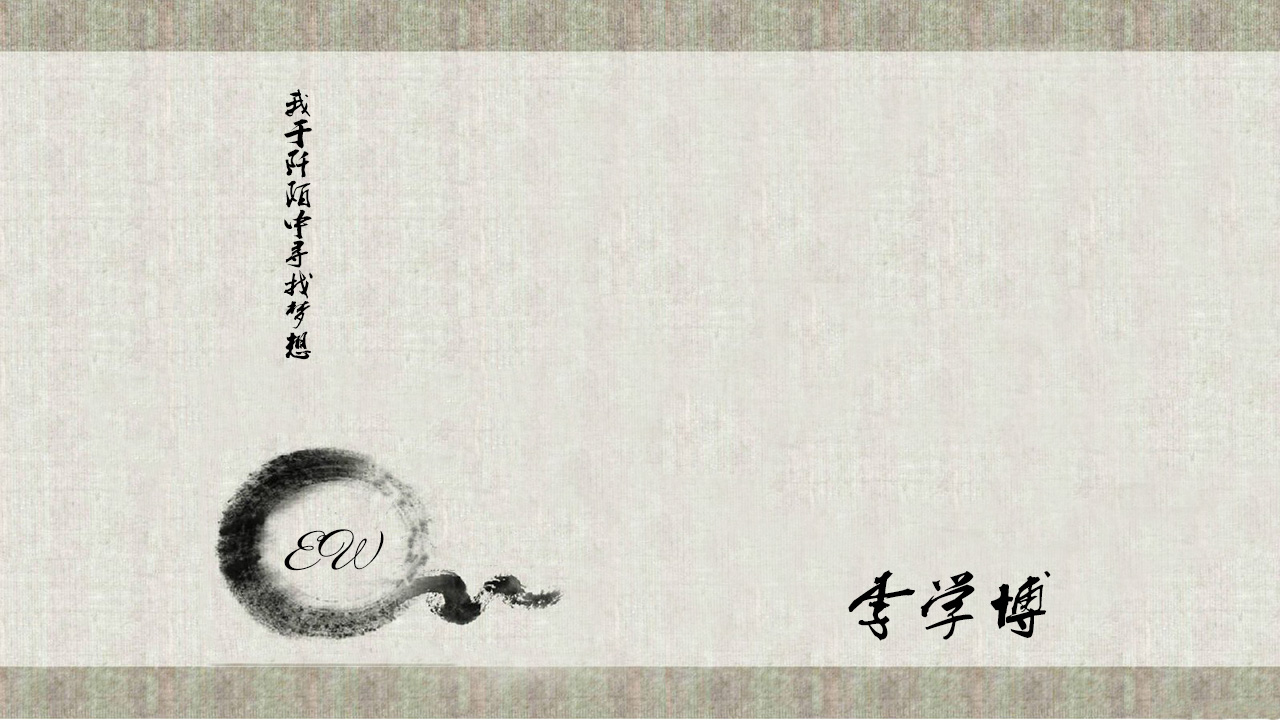
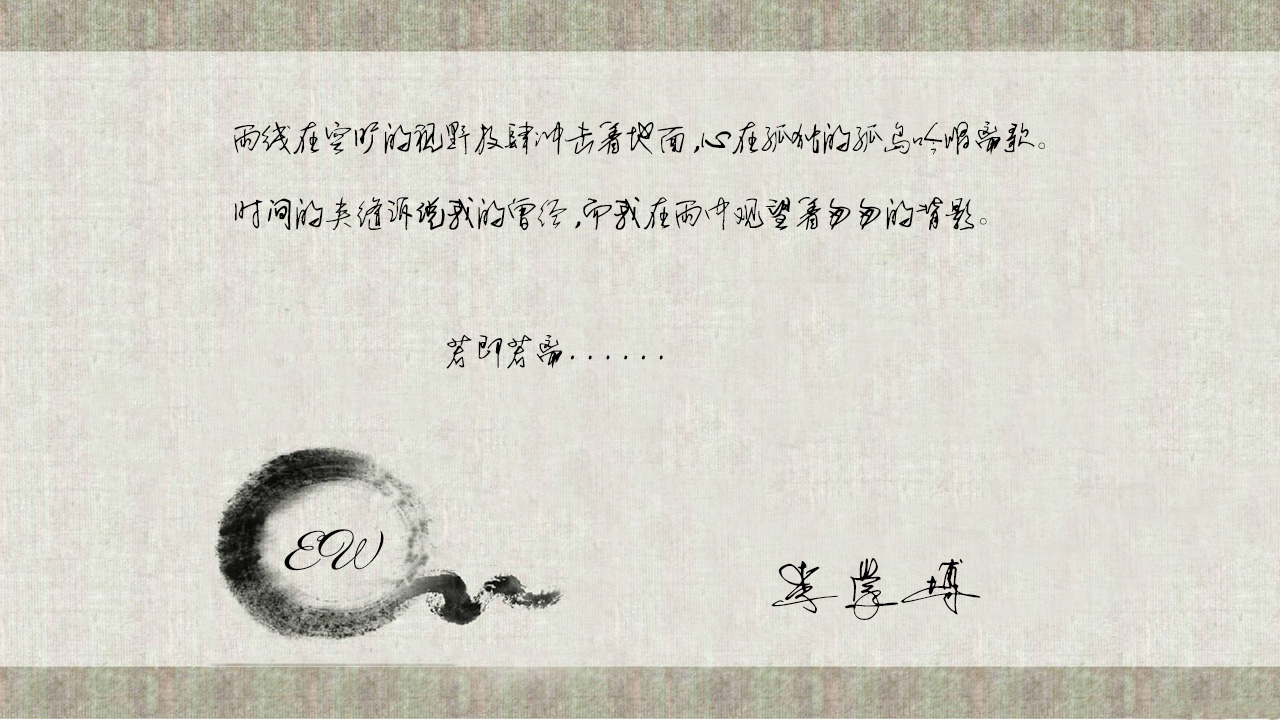
轮播图完成

Changed region(s): [[0.1875, 0.1222, 0.8125, 0.5194], [0.5938, 0.7639, 0.8125, 0.8861], [0.3438, 0.4583, 0.4375, 0.5194]]

diff --git a/src/components/program/program.vue b/src/components/program/program.vue
@@ -72,46 +72,33 @@
     <div id="demo" class="carousel slide" data-ride="carousel">
       <!-- 指示符 -->
       <ul class="carousel-indicators">
-        <li data-target="#demo" data-slide-to="0" class="active"></li>
-        <li data-target="#demo" data-slide-to="1"></li>
-        <li data-target="#demo" data-slide-to="2"></li>
+        <li
+          data-target="#demo"
+          data-slide-to="0"
+          v-for="(item,index) in img"
+          :key="item.id"
+          :class="[{'active':!index}]"
+        ></li>
       </ul>
-
       <!-- 轮播图片 -->
       <div class="ew-banner">
         <div class="carousel-inner">
-          <div class="carousel-item active">
+          <div
+            v-for="(item,index) in img"
+            :key="item.id"
+            :class="['carousel-item',{'active':!index}]"
+          >
             <a
               href="#"
-              class="pc-img d-none d-md-block"
-              style="background-image:url(https://static.runoob.com/images/mix/img_fjords_wide.jpg)"
+              class="pc-img"
+              :style="{backgroundImage:'url('+item.pAddress+')'}"
+              v-if="flag"
             ></a>
-            <a href="#" class="m-img d-block d-md-none">
-              <img src="https://static.runoob.com/images/mix/img_fjords_wide.jpg">
-            </a>
-          </div>
-          <div class="carousel-item">
-            <a
-              href="#"
-              class="pc-img d-none d-md-block"
-              style="background-image:url(https://static.runoob.com/images/mix/img_fjords_wide.jpg)"
-            ></a>
-            <a href="#" class="m-img d-block d-md-none">
-              <img src="https://static.runoob.com/images/mix/img_fjords_wide.jpg">
-            </a>
-          </div>
-          <div class="carousel-item">
-            <a
-              href="#"
-              class="pc-img d-none d-md-block"
-              style="background-image:url(https://static.runoob.com/images/mix/img_fjords_wide.jpg)"
-            ></a>
-            <a href="#" class="m-img d-block d-md-none">
-              <img src="https://static.runoob.com/images/mix/img_fjords_wide.jpg">
+            <a href="#" class="m-img" v-else>
+              <img :src="item.mAddress">
             </a>
           </div>
         </div>
-
         <!-- 左右切换按钮 -->
         <a class="carousel-control-prev" href="#demo" data-slide="prev">
           <span class="carousel-control-prev-icon"></span>
@@ -132,7 +119,12 @@
 export default {
   name: "program",
   data() {
-    return {};
+    return {
+      items: [],
+      img: [],
+      flag: "",
+      style: ""
+    };
   },
   created() {
     this.banner();
@@ -140,13 +132,16 @@ export default {
   methods: {
     banner() {
       this.$http
-        .jsonp("http://api.douban.com/v2/movie/top250?start=25&count=25")
+        .get("http://www.energywave.top:3053/api/imgUrl")
         .then(result => {
-          var isMobile = $(window).width() < 500000 ? "ture" : false;
+          var isMobile = $(window).width() > 768 ? "ture" : false;
           console.log(isMobile);
-          console.log(result);
+          this.flag = isMobile;
+          console.log(result.body);
+          this.img = result.body;
         });
     }
+    // 未开发屏幕监视
   }
 };
 </script>
@@ -218,5 +213,13 @@ a:hover {
     display: block;
     width: 100%;
   }
+}
+//轮播图指示器颜色
+.carousel-indicators .active {
+  background-color: #000;
+}
+.carousel-control-next-icon,
+.carousel-control-prev-icon {
+  background-color: #000;
 }
 </style>

diff --git a/src/components/hello/hello.vue b/src/components/hello/hello.vue
@@ -4,19 +4,19 @@
       <ul>
         <li>
           <router-link to="/person" tag="a">
-            <img src="@/assets/images/bg.jpg" alt>
+            <img src="@/assets/images/nav-img-1.jpg" alt>
             <p>Person</p>
           </router-link>
         </li>
         <li>
           <router-link to="/program">
-            <img src="@/assets/images/bg.jpg" alt>
+            <img src="@/assets/images/nav-img-2.jpg" alt>
             <p>Program</p>
           </router-link>
         </li>
         <li>
           <router-link to="/person">
-            <img src="../../assets/images/bg.jpg" alt>
+            <img src="../../assets/images/nav-img-3.jpg" alt>
             <p>Person</p>
           </router-link>
         </li>
@@ -40,7 +40,7 @@ export default {
     };
   },
   mounted() {
-    this.toggleSound();
+    // this.toggleSound();
   },
   methods: {
     // toggleSound() {
@@ -53,9 +53,9 @@ export default {
     // }
   }
 };
-$(function() {
-  alert("推荐使用谷歌浏览器访问");
-});
+// $(function() {
+//   alert("推荐使用谷歌浏览器访问");
+// });
 </script>
 
 <style scoped lang="less">
@@ -80,7 +80,7 @@ li {
   width: 30%;
   float: left;
   margin: 30px 1.5%;
-  opacity: 0.8;
+  opacity: 0.5;
   img {
     width: 100%;
     border-radius: 20px;
@@ -96,6 +96,9 @@ li {
   a {
     text-decoration: none;
   }
+}
+li:hover {
+  opacity: 1;
 }
 .center {
   text-align: center;
